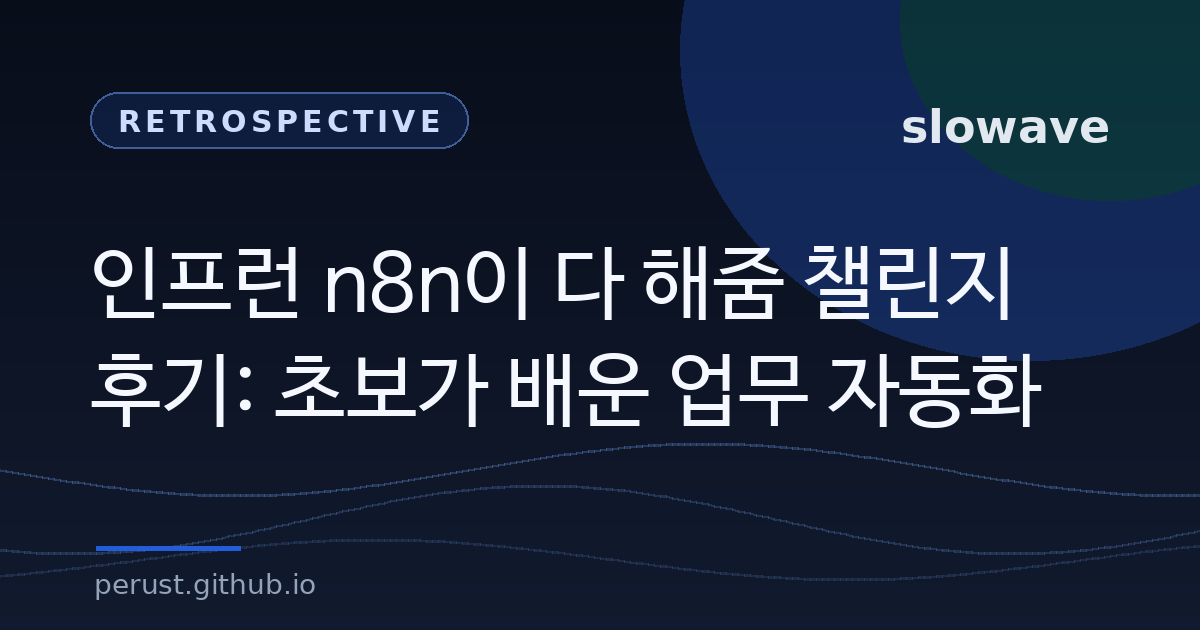
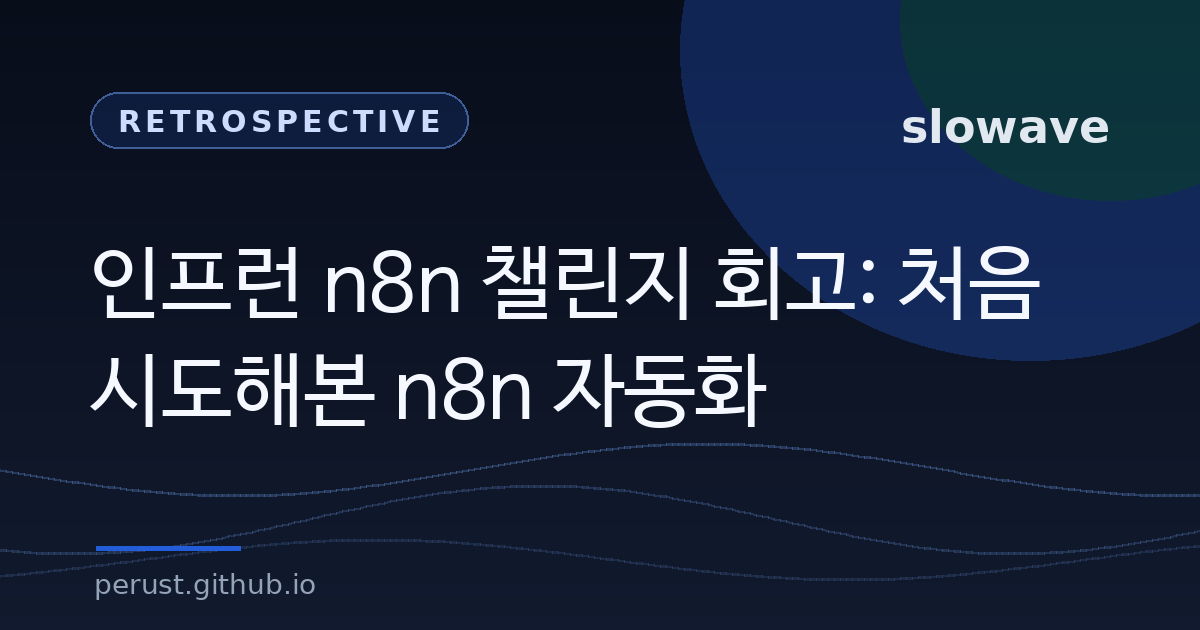
Rewrite n8n retrospective draft

Changed region(s): [[0.0617, 0.5429, 0.8633, 0.6937], [0.37, 0.3921, 0.8633, 0.5127]]

diff --git a/src/content/blog/2026-06-28-inflearn-n8n-challenge-retrospective.md b/src/content/blog/2026-06-28-inflearn-n8n-challenge-retrospective.md
@@ -1,118 +1,97 @@
 ---
-title: "인프런 n8n이 다 해줌 챌린지 후기: 초보가 배운 업무 자동화"
-description: "인프런 n8n이 다 해줌 챌린지를 n8n 초보 입장에서 따라가며 배운 업무 자동화 흐름, 난이도, 좋았던 점과 아쉬운 점을 정리했다."
+title: "인프런 n8n 챌린지 회고: 처음 시도해본 n8n 자동화"
+description: "n8n을 거의 모르는 상태에서 인프런 챌린지를 따라가며 처음 자동화 워크플로우를 만들어본 경험과 배운 점을 정리했다."
 date: "2026-06-28"
-updated: "2026-07-02"
+updated: "2026-07-03"
 category: "Retrospective"
 tags: ["n8n", "Automation", "Inflearn", "AI", "n8n 사용법", "업무 자동화"]
 faqs:
   - question: "인프런 n8n 챌린지는 초보자도 따라갈 수 있나요?"
-    answer: "n8n을 거의 모르는 상태에서도 미션을 따라가며 트리거, 노드, 워크플로우의 기본 감각을 잡을 수 있었다. 다만 마지막까지 완주하려면 매주 시간을 확보하고, 미션 내용을 바로 기록하는 편이 좋다."
+    answer: "n8n을 거의 모르는 상태에서도 미션을 따라가며 트리거, 노드, 워크플로우의 기본 감각을 잡을 수 있었다. 다만 마지막까지 따라가려면 매주 실습 시간과 기록 시간을 따로 확보하는 편이 좋다."
   - question: "n8n을 배우면서 가장 먼저 이해해야 할 개념은 무엇인가요?"
     answer: "가장 먼저 이해할 개념은 워크플로우, 트리거, 노드다. 자동화는 도구가 알아서 해주는 일이 아니라, 반복 작업을 시작점, 조건, 처리 단계, 결과 저장 위치로 나누는 일에 가깝다."
   - question: "n8n은 어떤 자동화에 적합한가요?"
-    answer: "n8n은 웹훅, 구글 시트, 슬랙, 이메일, API, AI 요약처럼 여러 서비스를 연결하는 반복 업무 자동화에 잘 맞는다. 예를 들어 자료 수집, 요약, 알림, 블로그 글감 정리, 일정 요약 같은 흐름을 만들 수 있다."
+    answer: "n8n은 웹훅, 구글 시트, 슬랙, 이메일, API, AI 요약처럼 여러 서비스를 연결하는 반복 업무 자동화에 잘 맞는다. 자료 수집, 요약, 알림, 블로그 글감 정리, 일정 요약 같은 흐름을 만들 수 있다."
 ---
 
-인프런 `n8n이 다 해줌` 챌린지는 n8n을 거의 모르는 상태에서 자동화 도구를 직접 만져본 경험이었다. 완벽하게 완주하지는 못했지만, 이 6주 과정 챌린지를 통해 자동화는 “AI가 알아서 해주는 일”이 아니라 **반복 작업의 흐름을 정리하고 연결하는 일**이라는 감각을 얻었다.
+인프런 n8n 챌린지가 끝났다.
 
-![n8n 자동화 흐름을 정리하는 작업 사진 1](/images/posts/2026-06-28-inflearn-n8n-challenge-retrospective-01.jpg)
+정확히 말하면 깔끔하게 끝냈다기보다는, 끝까지 해보고 싶었지만 마지막에는 조금 놓친 채로 마무리한 쪽에 가깝다. 부산에 다녀오고, 일정이 겹치고, 피로가 쌓이면서 마지막 주차 미션 두 개는 제대로 끝내지 못했다. 그 점은 아쉽다.
 
-<small>생성된 참고 이미지입니다.</small>
+그래도 이번 챌린지는 나에게 의미가 있었다. n8n을 거의 모르는 상태에서 시작했는데, 이제는 반복 작업을 보면 “이거 자동화로 연결할 수 있지 않을까?” 하고 생각하게 됐기 때문이다.
 
 ## 핵심 요약
 
-n8n 초보자에게 인프런 `n8n이 다 해줌` 챌린지는 워크플로우, 트리거, 노드, 서비스 연결의 기본 감각을 잡는 데 도움이 됐다. 다만 끝까지 따라가려면 매주 실습 시간을 따로 확보해야 한다.
+인프런 n8n 챌린지는 n8n을 처음 만져보는 입장에서 자동화의 기본 감각을 잡는 데 도움이 됐다. 특히 트리거, 노드, 워크플로우를 따라가며 “자동화는 도구가 알아서 해주는 일이 아니라 흐름을 정리하는 일”이라는 점을 배웠다.
 
 ```text
-대상: n8n을 처음 만져보는 사람
-과정: 인프런x한빛 n8n이 다 해줌 챌린지
-핵심: 트리거, 노드, 워크플로우 감각 익히기
-장점: 매주 미션으로 강제로 실습하게 됨
-주의: 실습 시간과 기록 시간을 따로 잡아야 함
+대상: n8n을 처음 써보는 사람
+경험: 인프런 n8n 챌린지를 따라가며 자동화 실습
+배운 점: 트리거, 노드, 워크플로우의 기본 감각
+좋았던 점: 매주 미션이 있어 강제로라도 손을 움직이게 됨
+아쉬운 점: 마지막 주차까지 페이스를 유지하지 못함
 ```
 
-![n8n 자동화 흐름을 정리하는 작업 사진 2](/images/posts/2026-06-28-inflearn-n8n-challenge-retrospective-02.jpg)
+## n8n이 뭔지도 잘 모르고 시작했다
 
-<small>생성된 참고 이미지입니다.</small>
+처음 챌린지를 신청할 때는 n8n이 뭔지도 잘 몰랐다.
 
-## 이 글에서 답하는 질문
+AI와 자동화에 관심을 갖기 시작하면서 n8n이라는 이름을 자주 보긴 했다. 누군가는 n8n이 좋다고 했고, 어떤 글에서는 Zapier나 Make 같은 자동화 도구와 비교했다. 그런데 정작 나는 n8n으로 무엇을 할 수 있는지, 워크플로우를 어떻게 만드는지 거의 모르는 상태였다.
 
-- 인프런 n8n 챌린지는 n8n 초보자도 따라갈 수 있을까?
-- n8n을 배우면 자동화를 어떻게 다르게 보게 될까?
-- 챌린지를 하면서 좋았던 점과 아쉬웠던 점은 무엇일까?
-- n8n으로 앞으로 어떤 개인 자동화를 만들어볼 수 있을까?
+그러던 중 한빛미디어를 통해 관련 책과 인프런 챌린지를 알게 됐다. 혼자 공부하면 또 “나중에 해야지” 하고 미룰 것 같았다. 정해진 기간이 있고, 매주 미션이 있고, 다른 사람들도 같이 한다면 적어도 한 번은 제대로 만져볼 수 있겠다고 생각했다.
 
-![n8n 자동화 흐름을 정리하는 작업 사진 3](/images/posts/2026-06-28-inflearn-n8n-challenge-retrospective-03.jpg)
-
-<small>생성된 참고 이미지입니다.</small>
-
-## n8n 기본개념
-
-n8n은 여러 서비스와 API를 노드로 연결해 반복 작업을 자동화하는 워크플로우 도구다. 예를 들어 웹훅으로 데이터를 받고, 조건에 따라 처리한 뒤, 구글 시트나 슬랙, 이메일, 노션 같은 도구로 결과를 보내는 흐름을 만들 수 있다.
-
-처음에는 n8n이 단순히 “자동화 툴”이라고만 느껴졌다. 하지만 실제로 써보니 핵심은 도구 이름보다 **업무를 작은 단계로 쪼개는 방식**에 있었다. 어떤 일이 어디서 시작되는지, 중간에 어떤 조건이 필요한지, 결과를 어디에 쌓을지 정리해야 워크플로우가 만들어졌다.
-
-![n8n 자동화 흐름을 정리하는 작업 사진 4](/images/posts/2026-06-28-inflearn-n8n-challenge-retrospective-04.jpg)
-
-<small>생성된 참고 이미지입니다.</small>
-
-## 신청 전 상태
-
-처음 인프런 n8n 챌린지를 신청할 때는 n8n이 뭔지도 잘 몰랐다. AI와 AI 자동화에 관심을 갖기 시작하면서 n8n이라는 단어를 자주 봤고, 어떤 사람은 n8n이 좋다고 했고, 어떤 글에서는 다른 자동화 도구와 비교했다. 자꾸 보이니 궁금했지만, 자동화를 어떻게 만드는지는 거의 모르는 상태였다.
-
-그러던 중 한빛미디어를 통해 관련 책과 인프런 챌린지를 알게 됐다. 혼자 찾아보면 또 “나중에 해야지” 하고 미룰 것 같았다. 그래서 챌린지라는 형식이 오히려 좋았다. 정해진 기간이 있고, 미션이 있고, 다른 사람들도 같이 한다면 적어도 한 번은 제대로 만져볼 수 있겠다고 생각했다.
+그래서 신청했다.
 
 사실상 아무것도 모르고 시작한 셈이다.
 
-처음에는 노드, 트리거, 워크플로우 같은 단어도 낯설었다. 하지만 미션을 따라가면서 조금씩 감이 왔다. n8n은 내가 반복해서 하는 일을 잘게 나누고, 그 단계들을 연결해서 하나의 흐름으로 만드는 도구였다.
+## 자동화는 흐름을 정리하는 일이었다
 
-![n8n 자동화 흐름을 정리하는 작업 사진 5](/images/posts/2026-06-28-inflearn-n8n-challenge-retrospective-05.jpg)
+처음에는 “n8n으로 뭘 만들 수 있을까?”를 먼저 생각했다. 그런데 챌린지를 따라가다 보니 질문이 조금 바뀌었다.
 
-<small>생성된 참고 이미지입니다.</small>
+- 내가 반복해서 하는 일은 무엇일까?
+- 그 일은 어디서 시작될까?
+- 중간에 어떤 조건이나 판단이 필요할까?
+- 결과는 어디에 저장되거나 전달되면 좋을까?
 
-## 자동화 흐름
+이런 질문을 해야 워크플로우가 만들어졌다.
 
-이번 챌린지를 하면서 가장 많이 느낀 건, 자동화는 도구를 잘 쓰는 것보다 흐름을 잘 정리하는 일이 먼저라는 점이었다.
+처음에는 노드, 트리거, 워크플로우 같은 단어가 낯설었다. 하지만 몇 번 따라 해보니 구조가 조금 보였다. n8n은 내가 하던 일을 작은 단계로 나누고, 그 단계들을 연결해서 하나의 흐름으로 만드는 도구였다.
 
-처음에는 “n8n으로 뭘 만들 수 있을까?”를 생각했다. 그런데 하다 보니 질문이 조금 바뀌었다.
+자동화라고 하면 막연히 “AI가 알아서 해주는 것”처럼 느껴질 때가 있다. 그런데 실제로 해보니 달랐다. 자동화는 먼저 내가 하는 일을 이해해야 가능했다. 어디서 시작하고, 무엇을 처리하고, 어디로 보내야 하는지 정리해야 했다.
 
-- 내가 반복해서 하는 일은 뭘까?
-- 이 일은 어디서 시작해서 어디서 끝날까?
-- 중간에 사람이 판단해야 하는 부분은 어디일까?
-- 결과는 어디에 쌓이면 좋을까?
-
-이런 식으로 생각해야 워크플로우가 만들어졌다.
-
-노드를 많이 붙이는 것보다 중요한 건 내가 하던 일을 단계별로 쪼개보는 일이었다. 그 과정에서 평소에는 그냥 손으로 처리하던 일들이 꽤 많다는 것도 알게 됐다.
+이 점이 가장 크게 남았다.
 
 ## 좋았던 점
 
 가장 좋았던 점은 강제로라도 매주 n8n을 만지게 됐다는 것이다.
 
-혼자 공부했다면 아마 설치만 해보고 멈췄을 가능성이 높다. 하지만 챌린지라는 형식이 있으니 매주 미션을 따라가게 됐고, 글도 남기게 됐다.
+혼자 공부했다면 아마 설치만 해보고 멈췄을 가능성이 높다. 그런데 챌린지라는 형식이 있으니 매주 미션을 따라가게 됐다. 블로그에 기록도 남겼다. 그냥 따라 하고 끝냈다면 금방 잊어버렸을 텐데, 글로 정리하려고 하니 내가 어디서 막혔는지, 어떤 식으로 이해했는지 다시 보게 됐다.
 
-특히 블로그에 기록을 남긴 것이 좋았다. 그냥 따라 하고 끝냈으면 금방 잊어버렸을 텐데, 글로 정리하려고 하니 내가 어디서 막혔는지, 어떤 식으로 이해했는지 다시 보게 됐다.
+n8n 자체도 생각보다 매력적이었다.
 
-n8n 자체도 매력적이었다. 웹훅, 구글 시트, 슬랙, 이메일, API 같은 것들을 연결할 수 있고, 여기에 AI까지 붙이면 활용 범위가 넓어진다. 단순히 “알림을 자동으로 보낸다” 수준을 넘어서, 정보를 모으고 요약하고 정리해서 원하는 곳에 보내는 흐름을 만들 수 있다는 점이 좋았다.
+웹훅, 구글 시트, 슬랙, 이메일, API 같은 것들을 연결할 수 있고, 여기에 AI까지 붙이면 활용 범위가 넓어진다. 단순히 “알림을 자동으로 보낸다” 정도가 아니라, 정보를 모으고 요약하고 정리해서 원하는 곳에 보내는 흐름을 만들 수 있다.
+
+예를 들어 자료를 모으고, AI가 요약하고, 그 결과를 노션이나 슬랙, 메일로 보내는 식이다. 이런 흐름은 앞으로 해보고 싶은 프로젝트들과도 잘 맞았다.
 
 관련해서 AI 에이전트와 자동화 흐름은 [2026년 6월 4주차 AI 주요 이슈 정리](/blog/2026-06-28-ai-weekly-2026-june-week-4/)에서도 이어서 다뤘다.
 
-## 아쉬운 점
+## 아쉬웠던 점
 
-가장 아쉬운 건 마지막까지 페이스를 유지하지 못한 것이다.
+아쉬운 점은 마지막까지 페이스를 유지하지 못한 것이다.
 
-초반에는 꽤 의욕적으로 따라갔다. 부산에 가서도 노트북을 열고 어떻게든 해보려고 했다. 그런데 일정이 겹치고 피로가 쌓이면서 마지막 주차 미션 두 개를 제때 마무리하지 못했다.
+초반에는 꽤 의욕적으로 따라갔다. 부산에 가서도 노트북을 열고 어떻게든 해보려고 했다. 그런데 일정이 겹치고 피로가 쌓이면서 마지막 주차 미션 두 개는 제때 마무리하지 못했다.
 
 챌린지를 완주했다는 느낌을 깔끔하게 가져가고 싶었는데, 그 부분은 아쉽다.
 
-또 하나는 더 깊이 써보지 못한 점이다. 미션을 따라가는 데 집중하다 보니, 내가 실제로 쓰고 싶은 자동화까지 충분히 확장하지는 못했다. n8n은 조금만 더 붙잡고 있으면 개인 프로젝트나 생활 자동화에 잘 쓸 수 있을 것 같은데, 아직은 “가능성은 봤지만 충분히 내 것으로 만들지는 못한” 상태에 가깝다.
+또 하나는 내가 실제로 쓰고 싶은 자동화까지 충분히 확장하지 못한 점이다. 미션을 따라가는 데 집중하다 보니, 나에게 필요한 자동화를 직접 설계하고 붙여보는 단계까지는 깊게 가지 못했다. 지금은 “가능성은 봤지만 아직 내 것으로 만들지는 못한” 상태에 가깝다.
 
-## 초보 자동화
+그래도 이 아쉬움이 오히려 다음 실험으로 이어질 것 같다.
 
-이번 챌린지를 해보니, n8n 초보자는 거창한 자동화보다 내가 이미 반복하고 있는 작은 일부터 시작하는 편이 좋다.
+## n8n 초보자가 먼저 해보면 좋을 자동화
 
-예를 들면 이런 흐름이다.
+이번 챌린지를 해보니, n8n을 처음 배우는 사람은 거창한 자동화보다 내가 이미 반복하고 있는 작은 일부터 시작하는 편이 좋겠다고 느꼈다.
+
+예를 들면 이런 것들이다.
 
 1. 매일 아침 캘린더와 할 일을 모아서 요약하기
 2. 관심 있는 글 링크를 저장하면 블로그 글감으로 정리하기
@@ -120,25 +99,23 @@ n8n 자체도 매력적이었다. 웹훅, 구글 시트, 슬랙, 이메일, API 
 4. 구글 시트에 쌓인 데이터를 주기적으로 요약하기
 5. 회고 노트를 정리해 다음 행동 목록으로 바꾸기
 
-이런 자동화는 복잡해 보이지만, 실제로는 트리거, 조건, 실행 단계, 결과 저장 위치를 정하는 문제다. 이 감각만 잡으면 n8n을 어디에 써야 할지 조금씩 보이기 시작한다.
+이런 자동화는 복잡해 보이지만, 결국은 시작점, 조건, 처리 단계, 결과 저장 위치를 정하는 문제다. 이 감각만 잡으면 n8n을 어디에 써야 할지 조금씩 보이기 시작한다.
 
-## 남은 활용법
+## 앞으로 해보고 싶은 것
 
-이번 챌린지를 통해 얻은 건 분명히 있다.
+챌린지가 끝났다고 n8n을 닫아두지는 않을 생각이다.
 
-이제는 어떤 반복 작업을 볼 때 “이거 n8n으로 연결할 수 있지 않을까?”라는 생각이 든다. 예전에는 자동화를 막연하게 생각했다면, 이제는 트리거, 조건, 데이터 흐름, 결과 저장 같은 단위로 나눠서 보게 됐다.
+가장 먼저 해보고 싶은 것은 내가 실제로 쓰는 자동화를 하나 만드는 일이다. 예를 들면 매일 아침 캘린더와 할 일을 모아서 정리해주는 워크플로우나, 관심 있는 글을 모아서 블로그 글감으로 바꿔주는 워크플로우가 좋을 것 같다.
 
-그리고 AI와 자동화를 연결하는 방식에 대해서도 감이 생겼다. AI를 단독으로 쓰는 것도 좋지만, 워크플로우 안에 넣으면 훨씬 쓸모가 커질 수 있다. 예를 들어 자료를 모으고, AI가 요약하고, 그 결과를 노션이나 슬랙, 메일로 보내는 식이다.
+개인 회고를 정리하는 자동화도 해보고 싶다. 지금은 생각이나 기록이 여러 곳에 흩어지기 쉬운데, n8n으로 입력 경로를 모으고, AI로 정리하고, 다시 읽기 좋은 형태로 쌓을 수 있다면 꽤 유용할 것 같다.
 
-이런 흐름은 앞으로 내가 하고 싶은 프로젝트들과도 잘 맞는다. 블로그 글감 정리, 일정 요약, 개인 회고 정리, 프로젝트 알림 같은 것부터 하나씩 만들어볼 수 있을 것 같다.
-
-블로그에 댓글이나 피드백 흐름을 붙이는 실험은 [깃허브 블로그에 댓글 기능 붙이기](/blog/2026-07-01-static-blog-anonymous-comments/)와도 이어진다. 정적 블로그라도 외부 도구를 잘 연결하면 꽤 많은 흐름을 만들 수 있다.
+블로그에 댓글이나 피드백 흐름을 붙이는 실험은 [깃허브 블로그에 댓글 기능 붙이기](/blog/2026-07-01-static-blog-anonymous-comments/)와도 이어진다. 정적 블로그라도 외부 도구를 잘 연결하면 생각보다 많은 흐름을 만들 수 있다.
 
 ## 자주 묻는 질문
 
 ### 인프런 n8n 챌린지는 초보자도 따라갈 수 있나요?
 
-n8n을 거의 모르는 상태에서도 미션을 따라가며 트리거, 노드, 워크플로우의 기본 감각을 잡을 수 있었다. 다만 마지막까지 완주하려면 매주 시간을 확보하고, 미션 내용을 바로 기록하는 편이 좋다.
+n8n을 거의 모르는 상태에서도 미션을 따라가며 트리거, 노드, 워크플로우의 기본 감각을 잡을 수 있었다. 다만 마지막까지 따라가려면 매주 실습 시간과 기록 시간을 따로 확보하는 편이 좋다.
 
 ### n8n을 배우면서 가장 먼저 이해해야 할 개념은 무엇인가요?
 
@@ -146,12 +123,12 @@ n8n을 거의 모르는 상태에서도 미션을 따라가며 트리거, 노드
 
 ### n8n은 어떤 자동화에 적합한가요?
 
-n8n은 웹훅, 구글 시트, 슬랙, 이메일, API, AI 요약처럼 여러 서비스를 연결하는 반복 업무 자동화에 잘 맞는다. 예를 들어 자료 수집, 요약, 알림, 블로그 글감 정리, 일정 요약 같은 흐름을 만들 수 있다.
+n8n은 웹훅, 구글 시트, 슬랙, 이메일, API, AI 요약처럼 여러 서비스를 연결하는 반복 업무 자동화에 잘 맞는다. 자료 수집, 요약, 알림, 블로그 글감 정리, 일정 요약 같은 흐름을 만들 수 있다.
 
-## 최종정리
+## 마무리
 
 돌아보면 완벽한 완주는 아니었다. 중간에 놓친 것도 있고, 마지막 주차에는 제대로 참여하지 못한 것도 있다.
 
 그래도 부산에서도 노트북을 열고, 밤에 n8n을 붙잡고, 어떻게든 글을 올리려고 했던 걸 보면 나름 꽤 진심이었다.
 
-인프런 n8n 챌린지를 통해 배운 건 단순했다. 자동화는 거창한 것이 아니라, 내가 반복해서 하는 일을 조금씩 덜어내는 일이다. 그리고 그걸 직접 만들어볼 수 있다는 점이 생각보다 재미있었다.
+이번 인프런 n8n 챌린지를 통해 배운 건 단순했다. 자동화는 거창한 것이 아니라, 내가 반복해서 하는 일을 조금씩 덜어내는 일이다. 그리고 그걸 직접 만들어볼 수 있다는 점이 생각보다 재미있었다.
